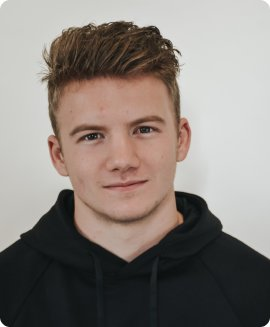
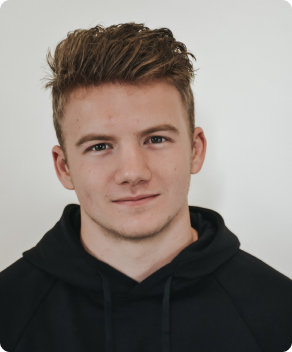
Diploma. Scroll done. Photo border radius done. Cards done. Main page corrected in 1280, 768, 320.

diff --git a/src/components/Main/Portfolio/Portfolio.css b/src/components/Main/Portfolio/Portfolio.css
@@ -34,12 +34,13 @@
   justify-content: space-between;
   align-items: center;
   margin: 0;
-  padding: 15px 0 13px;
+  padding: 20px 0 18px;
   position: relative;
 }
 
 .portfolio__item:not(:last-of-type) {
   border-bottom: 1px solid #404040;
+  position: relative;
 }
 
 .portfolio__item:after {
@@ -49,11 +50,14 @@
   background-position: center;
   background-size: contain;
   cursor: pointer;
-  width: 30px;
-  height: 60px;
+  width: 18px;
+  height: 18px;
   padding: 1px 0 0;
   margin: 0;
   transition: opacity .3s ease;
+  position: absolute;
+  top: 38px;
+  right: 6px;
 }
 
 .portfolio__item:hover:after {
@@ -63,9 +67,15 @@
 .portfolio__link {
   text-decoration: none;
   color: #fff;
-  font-size: 30px;
+  font-size: 2.35vw;
   line-height: 50px;
   letter-spacing: -0.04em;
+}
+
+@media screen and (min-width: 1290px) {
+  .portfolio__link {
+    font-size: 30px;
+  }
 }
 
 @media screen and (max-width: 768px) {
@@ -79,6 +89,13 @@
 
   .portfolio__item:not(:last-of-type) {
     border-color: #e6e6e6;
+  }
+
+  .portfolio__item:after {
+    max-width: 17px;
+    max-height: 17px;
+    top: 38px;
+    right: 5px;
   }
 }
 
@@ -108,7 +125,7 @@
   .portfolio__item:after {
     width: 11px;
     height: 11px;
-    margin-right: 4px;
-    margin-top: -1px;
+    top: 27px;
+    right: 4px;
   }
 }

diff --git a/src/components/Main/AboutMe/AboutMe.js b/src/components/Main/AboutMe/AboutMe.js
@@ -14,7 +14,7 @@ const AboutMe = () => {
             <p className='about-me__student-biography'>
               Я родился и живу в Саратове, закончил факультет экономики СГУ. У меня есть жена
               и дочь. Я люблю слушать музыку, а ещё увлекаюсь бегом. Недавно начал кодить.
-              С&nbsp;2015 года работал в компании «СКБ Контур». После того, как прошёл курс по веб-разработке, начал заниматься фриланс-заказами и ушёл с постоянной работы.
+              С 2015 года работал в компании «СКБ Контур». После того, как прошёл курс по веб-разработке, начал заниматься фриланс-заказами и ушёл с постоянной работы.
             </p>
             <a className='about-me__github-link' href='https://github.com/dimanpmGit/movies-explorer-frontend' target="_blank" rel="noreferrer">Github</a>
           </dvi>

diff --git a/src/components/Navigation/Navigation.css b/src/components/Navigation/Navigation.css
@@ -3,12 +3,14 @@
   margin: 0;
   position: relative;
   width: 100%;
-  z-index: 5;
+  display: flex;
+  justify-content: space-between;
 }
 
 .navigation__wrapper {
   margin: 0;
   padding: 0;
+  width: 100%;
   display: flex;
   justify-content: space-between;
 }
@@ -40,7 +42,6 @@
 
 .navigation__hamburger {
   display: none;
-  content: "";
   width: 44px;
   height: 44px;
   background: none;
@@ -52,15 +53,16 @@
   margin: 0;
   padding: 0;
   position: absolute;
-  top: -7px;
-  right: 1px;
+  top: -22px;
+  right: 0px;
   opacity: 0;
   cursor: pointer;
+  z-index: 1;
 }
 
 @media screen and (max-width: 768px) {
   .navigation__wrapper {
-    opacity: 0;
+    display: none;
   }
 
   .navigation__hamburger {
@@ -70,10 +72,6 @@
 }
 
 @media screen and (max-width: 320px) {
-  .navigation__wrapper {
-    display: none;
-  }
-
   .navigation__hamburger {
     background-image: url('../../images/icon-main-small.svg');
     width: 40px;

diff --git a/src/components/Footer/Footer.css b/src/components/Footer/Footer.css
@@ -6,7 +6,7 @@
 
 .footer__container {
   margin: 0 auto;
-  padding: 84px 70px 20px;
+  padding: 87px 70px 20px;
   max-width: 1280px;
   display: flex;
   flex-direction: column;
@@ -27,7 +27,12 @@
   display: flex;
   justify-content: space-between;
   margin: 0;
-  padding: 7px 0 0;
+  padding: 20px 0 0;
+}
+
+.footer__copyright {
+  margin: 0;
+  padding: 0;
 }
 
 .footer__links {
@@ -47,13 +52,13 @@
 
 @media screen and (max-width: 768px) {
   .footer__container {
-    padding: 59px 30px 6px;
+    padding: 62px 30px 19px;
   }
 }
 
 @media screen and (max-width: 320px) {
   .footer__container {
-    padding: 157px 14px 21px;
+    padding: 61px 14px 21px;
   }
 
   .footer__title {
@@ -78,8 +83,7 @@
   }
 
   .footer__copyright {
-    margin: 0;
-    padding: 28px 0 0;
+    padding-top: 28px;
     order: 2;
     text-align: center;
     font-size: 12px;

diff --git a/src/components/MoviesCardList/MoviesCardList.css b/src/components/MoviesCardList/MoviesCardList.css
@@ -10,20 +10,26 @@
   grid-template-columns: repeat(3, minmax(150px, 364px));
   grid-auto-rows: 281px;
   gap: 37px 24px;
+  justify-content: center;
   box-sizing: border-box;
+}
+
+@media screen and (max-width: 1155px) {
+  .movies-card-list__container {
+    grid-template-columns: repeat(2, minmax(100px, 339px));
+    grid-auto-rows: 262px;
+    gap: 30px;
+  }
 }
 
 @media screen and (max-width: 768px) {
   .movies-card-list__container {
-    grid-template-columns: repeat(2, minmax(100px, 339px));
-    grid-auto-rows: 262px;
     padding-left: 30px;
     padding-right: 30px;
-    gap: 30px 30px;
   }
 }
 
-@media screen and (max-width: 320px) {
+@media screen and (max-width: 640px) {
   .movies-card-list__container {
     grid-template-columns: repeat(1, minmax(100px, 300px));
     grid-auto-rows: 237px;

diff --git a/src/components/Main/Techs/Techs.css b/src/components/Main/Techs/Techs.css
@@ -6,7 +6,6 @@
   margin: 0 auto;
   padding: 100px 70px;
   max-width: 1280px;
-  min-width: 320px;
   display: flex;
   flex-direction: column;
   align-items: center;
@@ -40,7 +39,7 @@
 
 .techs__technologies {
   margin: 0;
-  padding: 100px 0 0;
+  padding: 91px 0 0;
   display: flex;
   column-gap: 10px;
   list-style: none;
@@ -67,7 +66,7 @@
 
 @media screen and (max-width: 768px) {
   .techs__container {
-    padding: 90px 50px;
+    padding: 85px 50px;
   }
 
   .techs__subtitle {
@@ -107,6 +106,10 @@
 }
 
 @media screen and (max-width: 320px) {
+  .techs__container {
+    padding-left: 18px;
+    padding-right: 18px;
+  }
   .techs__subtitle {
     font-size: 30px;
     padding-top: 49px;

diff --git a/src/components/Main/AboutMe/AboutMe.css b/src/components/Main/AboutMe/AboutMe.css
@@ -47,8 +47,9 @@
   margin: 0;
   padding: 0;
   max-width: 270px;
+  max-height: 327px;
   display: flex;
-  object-fit: contain;
+  object-fit: cover;
   object-position: center;
   border-radius: 10px;
 }
@@ -66,7 +67,7 @@
 
 @media screen and (max-width: 768px) {
   .about-me__container {
-    padding: 90px 50px 0;
+    padding: 95px 50px 0;
   }
 
   .about-me__student-name {
@@ -90,6 +91,7 @@
 
   .about-me__student-photo {
     max-width: 255px;
+    max-height: 307px;
   }
 
   .about-me__github-link {
@@ -120,7 +122,7 @@
 
   .about-me__student-photo {
     max-width: 292px;
-    width: 100%;
+    max-height: 352px;
   }
 
   .about-me__student-name {

diff --git a/src/components/Main/Promo/Promo.css b/src/components/Main/Promo/Promo.css
@@ -29,7 +29,7 @@
   min-height: 244px;
   background-image: url('../../../images/text__COLOR_landing-logo.svg');
   background-repeat: no-repeat;
-  background-position: center bottom;
+  background-position: right bottom;
   background-size: contain;
 }
 
@@ -46,6 +46,7 @@
   .promo__image {
     padding-top: 126px;
     width: 100%;
+    background-position: center bottom;
   }
 }
 
@@ -57,7 +58,7 @@
   .promo__title {
     font-size: 31px;
     line-height: 39px;
-    min-width: 300px;
+    max-width: 300px;
   }
 
   .promo__image {

diff --git a/src/components/Main/AboutProject/AboutProject.css b/src/components/Main/AboutProject/AboutProject.css
@@ -6,7 +6,7 @@
 
 .about-project__container {
   margin: 0 auto;
-  padding: 110px 70px;
+  padding: 110px 70px 105px;
   max-width: 1280px;
   display: flex;
   flex-direction: column;

diff --git a/src/components/Header/Header.css b/src/components/Header/Header.css
@@ -36,4 +36,8 @@
     max-width: 320px;
     padding: 18px 14px;
   }
+
+  .header__menu {
+    padding-left: 10px;
+  }
 }

diff --git a/src/components/App/App.css b/src/components/App/App.css
@@ -1,5 +1,4 @@
 .app {
-  min-width: 320px;
   min-height: 100vh;
   margin: 0 auto;
   padding: 0;
